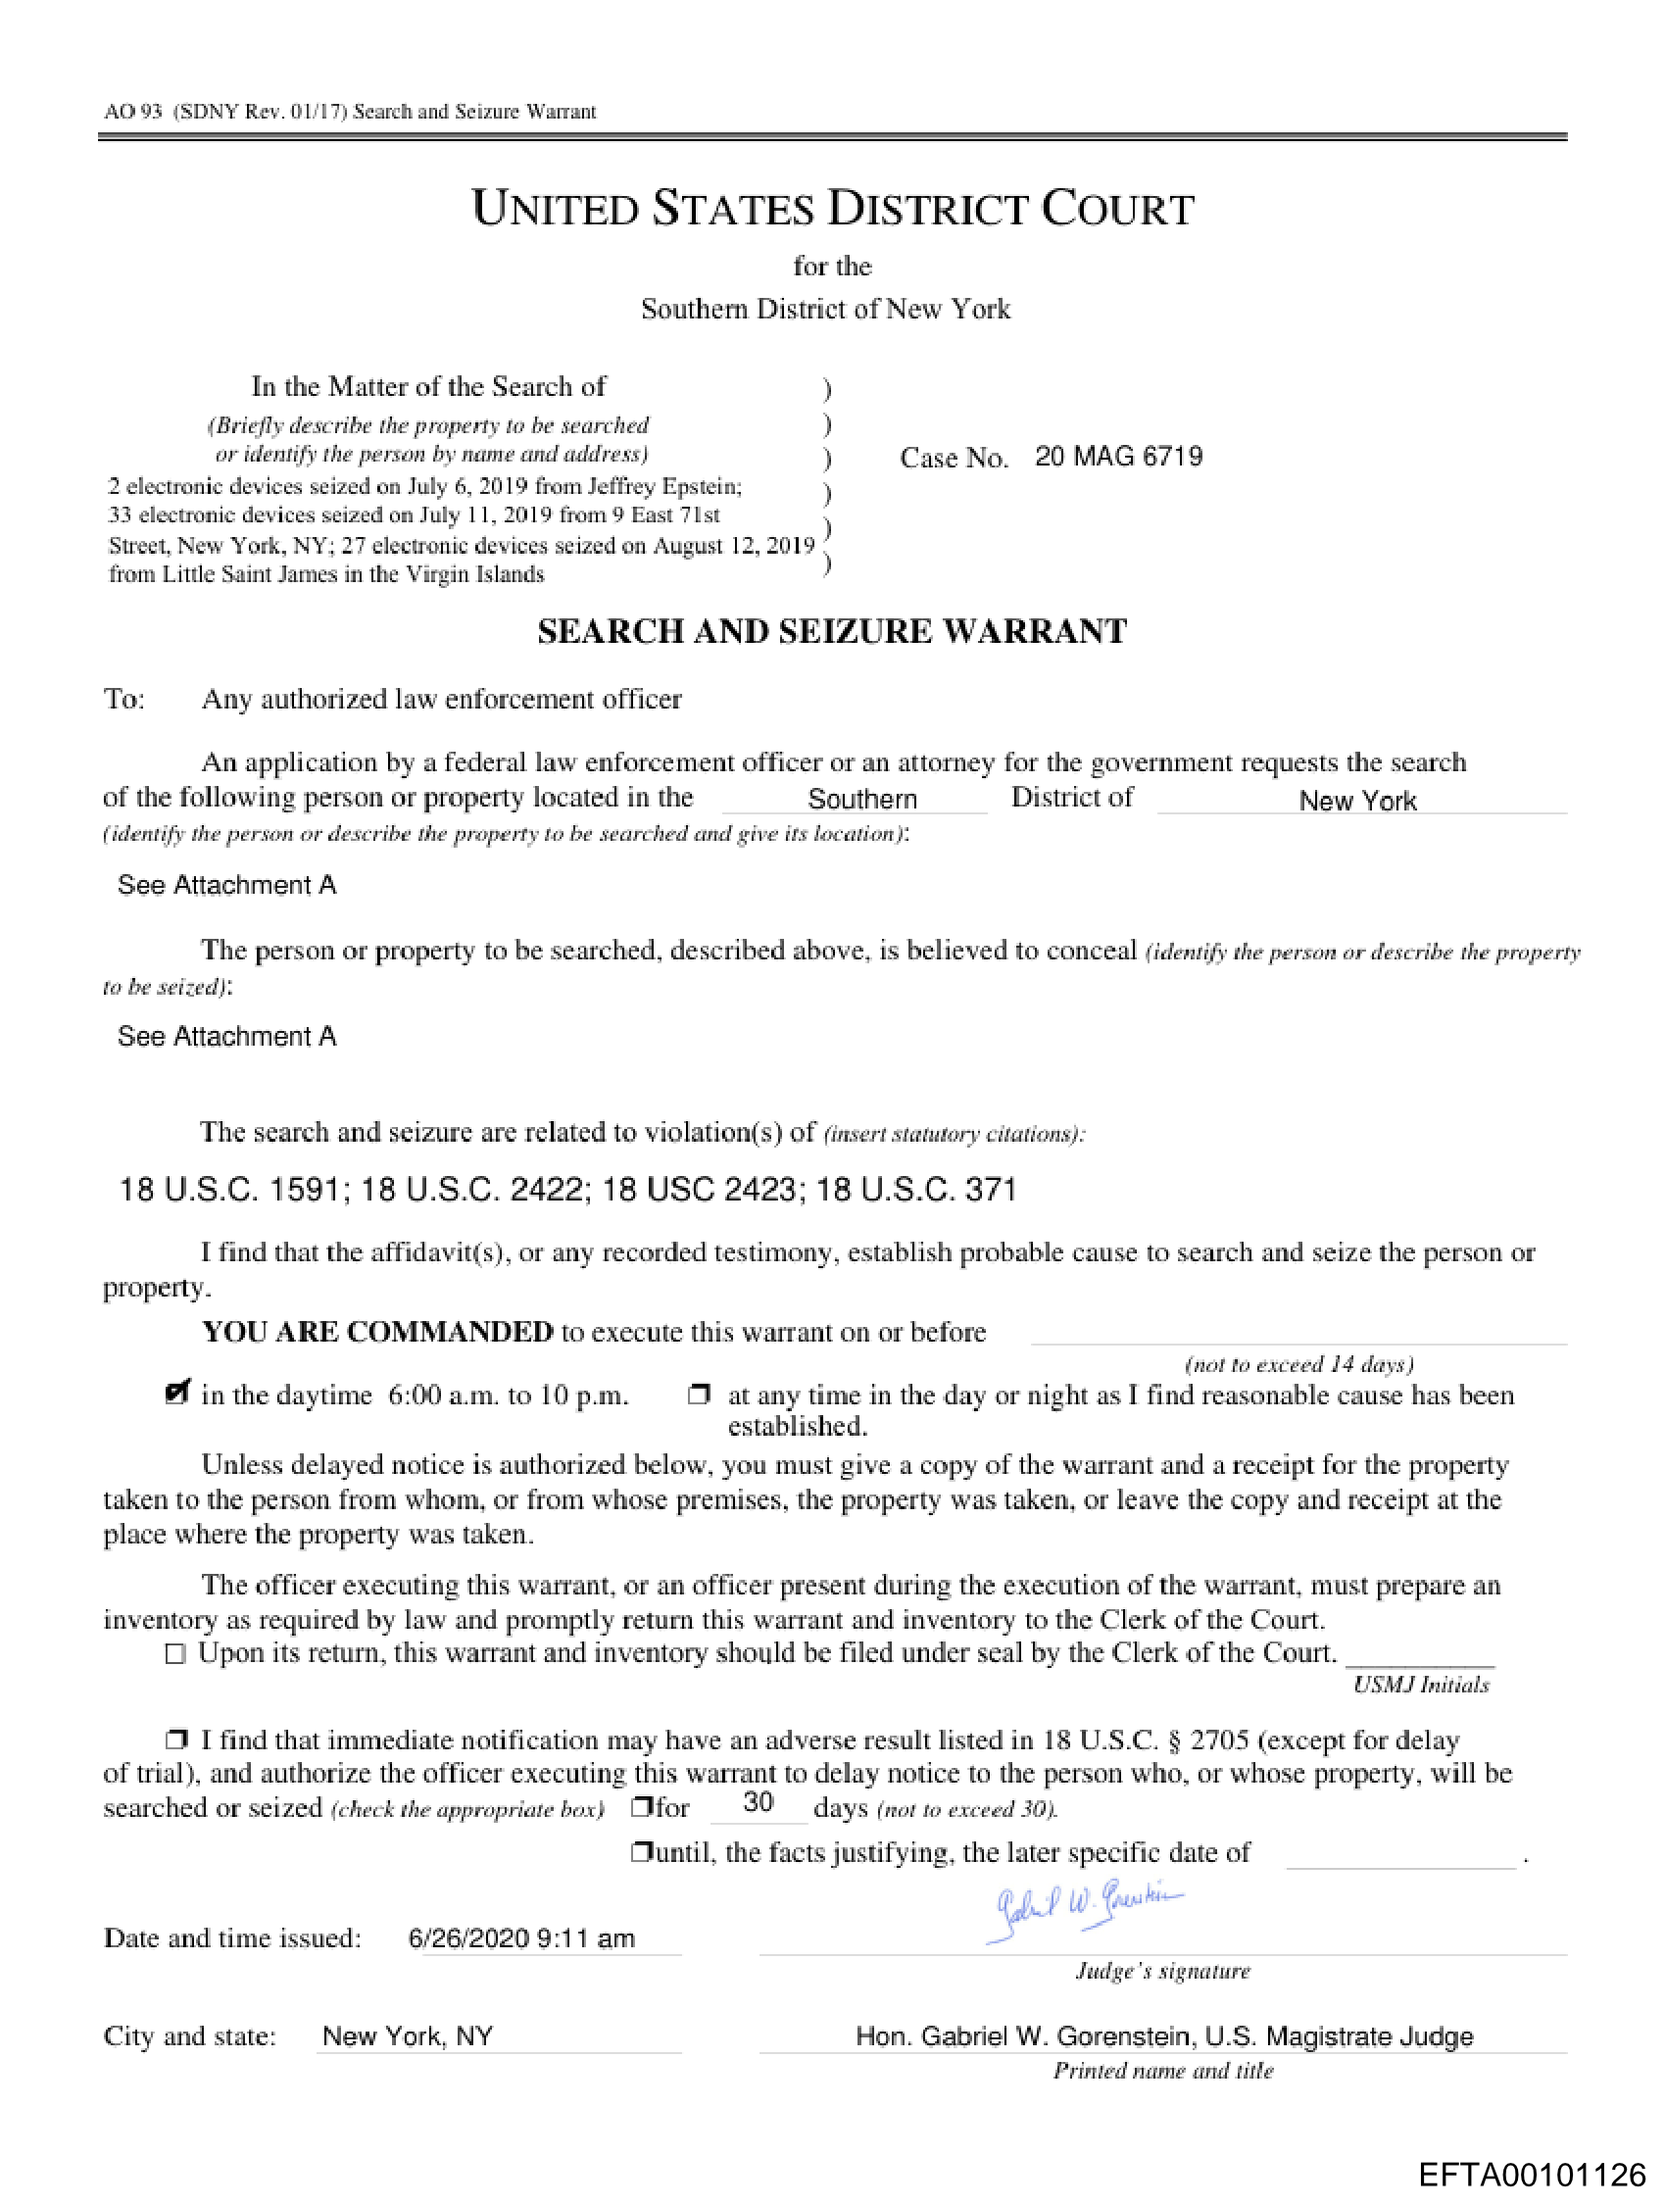
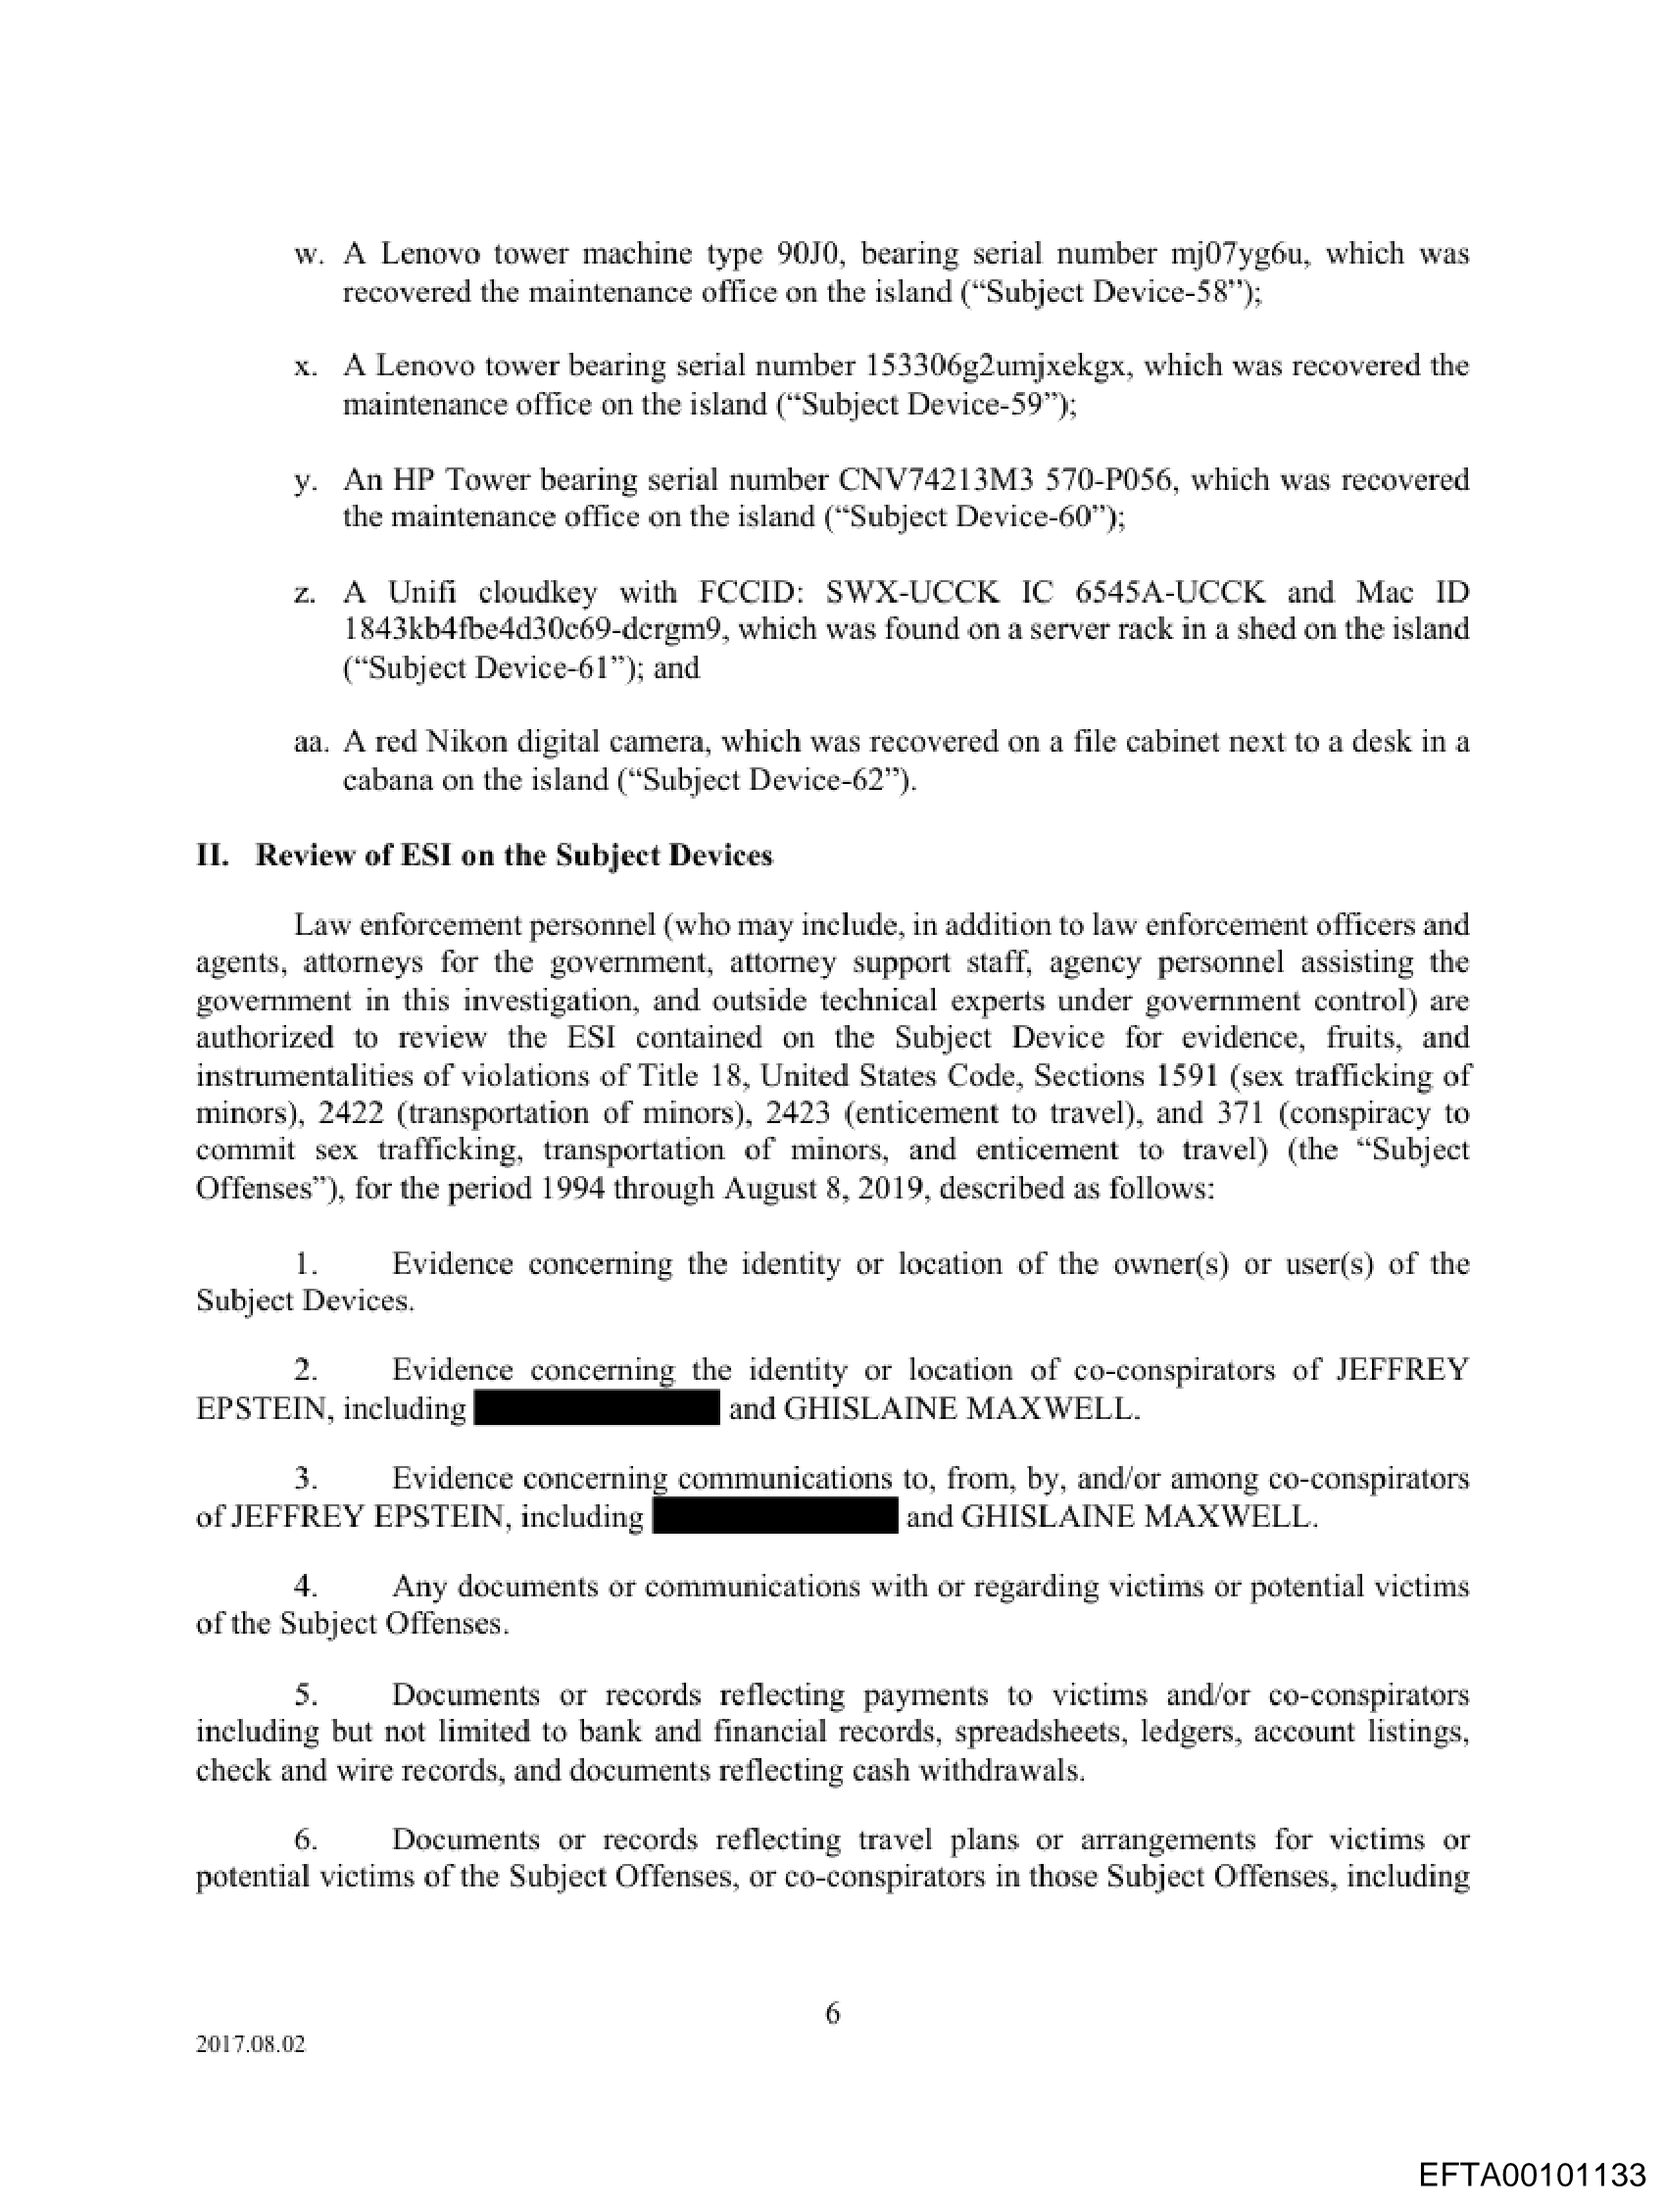
Update README

Changed region(s): [[0.0624, 0.0311, 0.9046, 0.9644], [0.8111, 0.0933, 0.8423, 0.1244]]

diff --git a/README.md b/README.md
@@ -1,75 +1,129 @@
 # UnRedact
-Un-redact files
+UnRedact is a tool that analyzes redacted PDF files and makes best-effort guesses about hidden text.
 
-## Build/Lint Policy
-- Builds run through `clippy` and fail on any warning.
-- Ensure clippy is installed: `rustup component add clippy`
+It works by combining:
+- redaction box detection,
+- nearby visible text,
+- PDF font/width measurements (including kerning and ligatures),
+- visual scoring against the rendered page.
 
-## Available CLIs
+## Important Note
+UnRedact generates guesses. It does not guarantee the true hidden text.
 
-### Font Detection CLI
-Use the `font_detection_cli` binary to analyze embedded fonts and emit JSON metadata:
+## Who This Is For
+- Researchers and journalists
+- Investigators reviewing released records
+- Anyone who wants structured, repeatable analysis of redacted PDFs
 
-- Scan one or more files: `cargo run --bin font_detection_cli -- detect <FILE>...`
-- Include verbose metadata: add `--details`
-- Write output to a file: `--output path/to/report.json`
-
-### Redaction Finder CLI
-The `redaction_finder_cli` binary surfaces annotation, drawn, and raster redactions:
-
-- Basic run: `cargo run --bin redaction_finder_cli -- path/to/file.pdf`
-- Emit extra per-redaction metadata: `--details`
-- Limit detection scope: `--mode annotations|drawn|all`
-- Include full-page rectangles: `--include-full-page-rects`
-- Skip raster analysis if you only need vector checks: `--no-image-analysis`
-- Set render resolution for raster detection: `--raster-dpi 200`
-- Write JSON to disk instead of stdout: `--output path/to/report.json`
-
-Raster detection in the CLI uses the pure-Rust `hayro` crate.
-
-### Redaction Guesser CLI
-The `redaction_guess_cli` binary generates standalone guess reports from precomputed JSON inputs:
-
-- Basic run: `cargo run --bin redaction_guess_cli --redactions redactions.json --fonts fonts.json --pdf path/to/file.pdf`
-- Include a custom dictionary: `--dictionary words.txt`
-- Control search size: `--max-words 4 --max-candidates 50 --max-dictionary 2000`
-- Control tolerance: `--tol-pt 4.0`
-- Cap search work: `--max-nodes 50000`
-- Write JSON to disk instead of stdout: `--output path/to/guesses.json`
-
-Example orchestration:
+## Install
+1. Install Rust: https://rustup.rs
+2. Clone this repository.
+3. Build:
 
 ```bash
-cargo run --bin redaction_finder_cli -- path/to/file.pdf --output redactions.json --details
-cargo run --bin font_detection_cli -- detect path/to/file.pdf --output fonts.json --details
-cargo run --bin redaction_guess_cli --redactions redactions.json --fonts fonts.json --pdf path/to/file.pdf --output guesses.json
+cargo build --release
 ```
 
-### Orchestrator CLI
-The `unredact_orchestrator_cli` binary runs redaction detection, font detection, and guessing in one pass:
+## Quick Start (Single PDF)
+Run UnRedact on one file:
 
-- Basic run: `cargo run --bin unredact_orchestrator_cli -- path/to/file.pdf`
-- Output directory: `--output-dir path/to/out` (defaults to the system temp dir under `unredact`)
-- Include a custom dictionary: `--dictionary words.txt`
-- Control redaction detection: `--details --include-full-page-rects --no-image-analysis --raster-dpi 200`
-- Control guessing: `--max-words 4 --max-candidates 50 --max-dictionary 2000 --tol-pt 4.0 --max-nodes 50000`
-- Visualize redactions: `--visualize --visualize-border 1.0` (writes a `*.visualized.pdf`)
+```bash
+cargo run --bin unredact -- path/to/file.pdf --output-dir path/to/output
+```
 
-### PDF to PNG CLI
-Use the `pdf_to_png` binary to render PDF pages into PNG files for docs/README updates:
+This creates:
+- `file.redactions.json` (detected redaction regions)
+- `file.fonts.json` (detected text/font runs)
+- `file.guesses.json` (best guesses, scores, and diagnostics)
 
-- Render first page: `cargo run --bin pdf_to_png -- path/to/file.pdf`
-- Render a specific page: `cargo run --bin pdf_to_png -- path/to/file.pdf --page 2`
-- Render all pages: `cargo run --bin pdf_to_png -- path/to/file.pdf --all-pages --output-dir path/to/out`
-- Choose DPI: `--dpi 200`
-- Write single-page output to a specific file: `--output path/to/page.png`
+## Create a Visualized PDF
+If you want an output PDF with overlays:
 
-## Example PDFs
+```bash
+cargo run --bin unredact -- path/to/file.pdf --output-dir path/to/output --visualize
+```
 
-Original sample:
+This also creates:
+- `file.visualized.pdf`
+
+## Process a Whole Folder (Batch Mode)
+You can pass a folder instead of a single file:
+
+```bash
+cargo run --bin unredact -- path/to/folder --output-dir path/to/output --recursive --glob *.pdf
+```
+
+Useful batch options:
+- `--recursive`: include subfolders
+- `--glob`: filename filter (`*` and `?` supported), default `*.pdf`
+- `--jobs`: number of parallel workers
+- `--fail-fast`: stop at the first failed file
+- `--batch-manifest`: write a JSON summary report
+
+The batch manifest includes per-file success/failure and runtime.
+
+## Use Your Own Dictionary (Optional)
+You can provide a custom dictionary file (one entry per line):
+
+```bash
+cargo run --bin unredact -- path/to/file.pdf --dictionary path/to/dictionary.txt
+```
+
+If you do not provide one, UnRedact uses the built-in names list.
+
+## Most Useful Runtime Controls
+- `--max-candidates`: number of guesses to keep per redaction
+- `--max-dictionary`: maximum dictionary size loaded
+- `--tol-pt`: width tolerance
+- `--no-visual-score`: disable visual scoring
+- `--visual-score-dpi`: render DPI for visual scoring
+- `--visual-drop-threshold`: drop guesses above a visual error threshold
+
+Show all `unredact` options:
+
+```bash
+cargo run --bin unredact -- --help
+```
+
+## Accuracy Benchmark
+Use this benchmark to track quality and consistency over time:
+
+```bash
+cargo run --bin guess_accuracy_benchmark -- --out benchmark/guess_accuracy.json --repeats 2 --consistency-out benchmark/guess_consistency.json
+```
+
+This reports:
+- recall and ranking metrics,
+- visual error metrics,
+- stage timing metrics,
+- run-to-run consistency metrics.
+
+Use `--determinism` as shorthand for `--repeats 3`.
+
+Show benchmark options:
+
+```bash
+cargo run --bin guess_accuracy_benchmark -- --help
+```
+
+## PDF to PNG Helper
+Use this to convert PDF pages into PNG images (useful for documentation and visual checks):
+
+```bash
+cargo run --bin pdf_to_png -- path/to/file.pdf --page 2 --dpi 200
+```
+
+Show options:
+
+```bash
+cargo run --bin pdf_to_png -- --help
+```
+
+## Example
+Original sample (page 8):
 
 ![Original PDF preview](example/EFTA00101126.png)
 
-Visualized output:
+Visualized sample (page 8):
 
 ![Visualized PDF preview](example/EFTA00101126.visualized.png)
